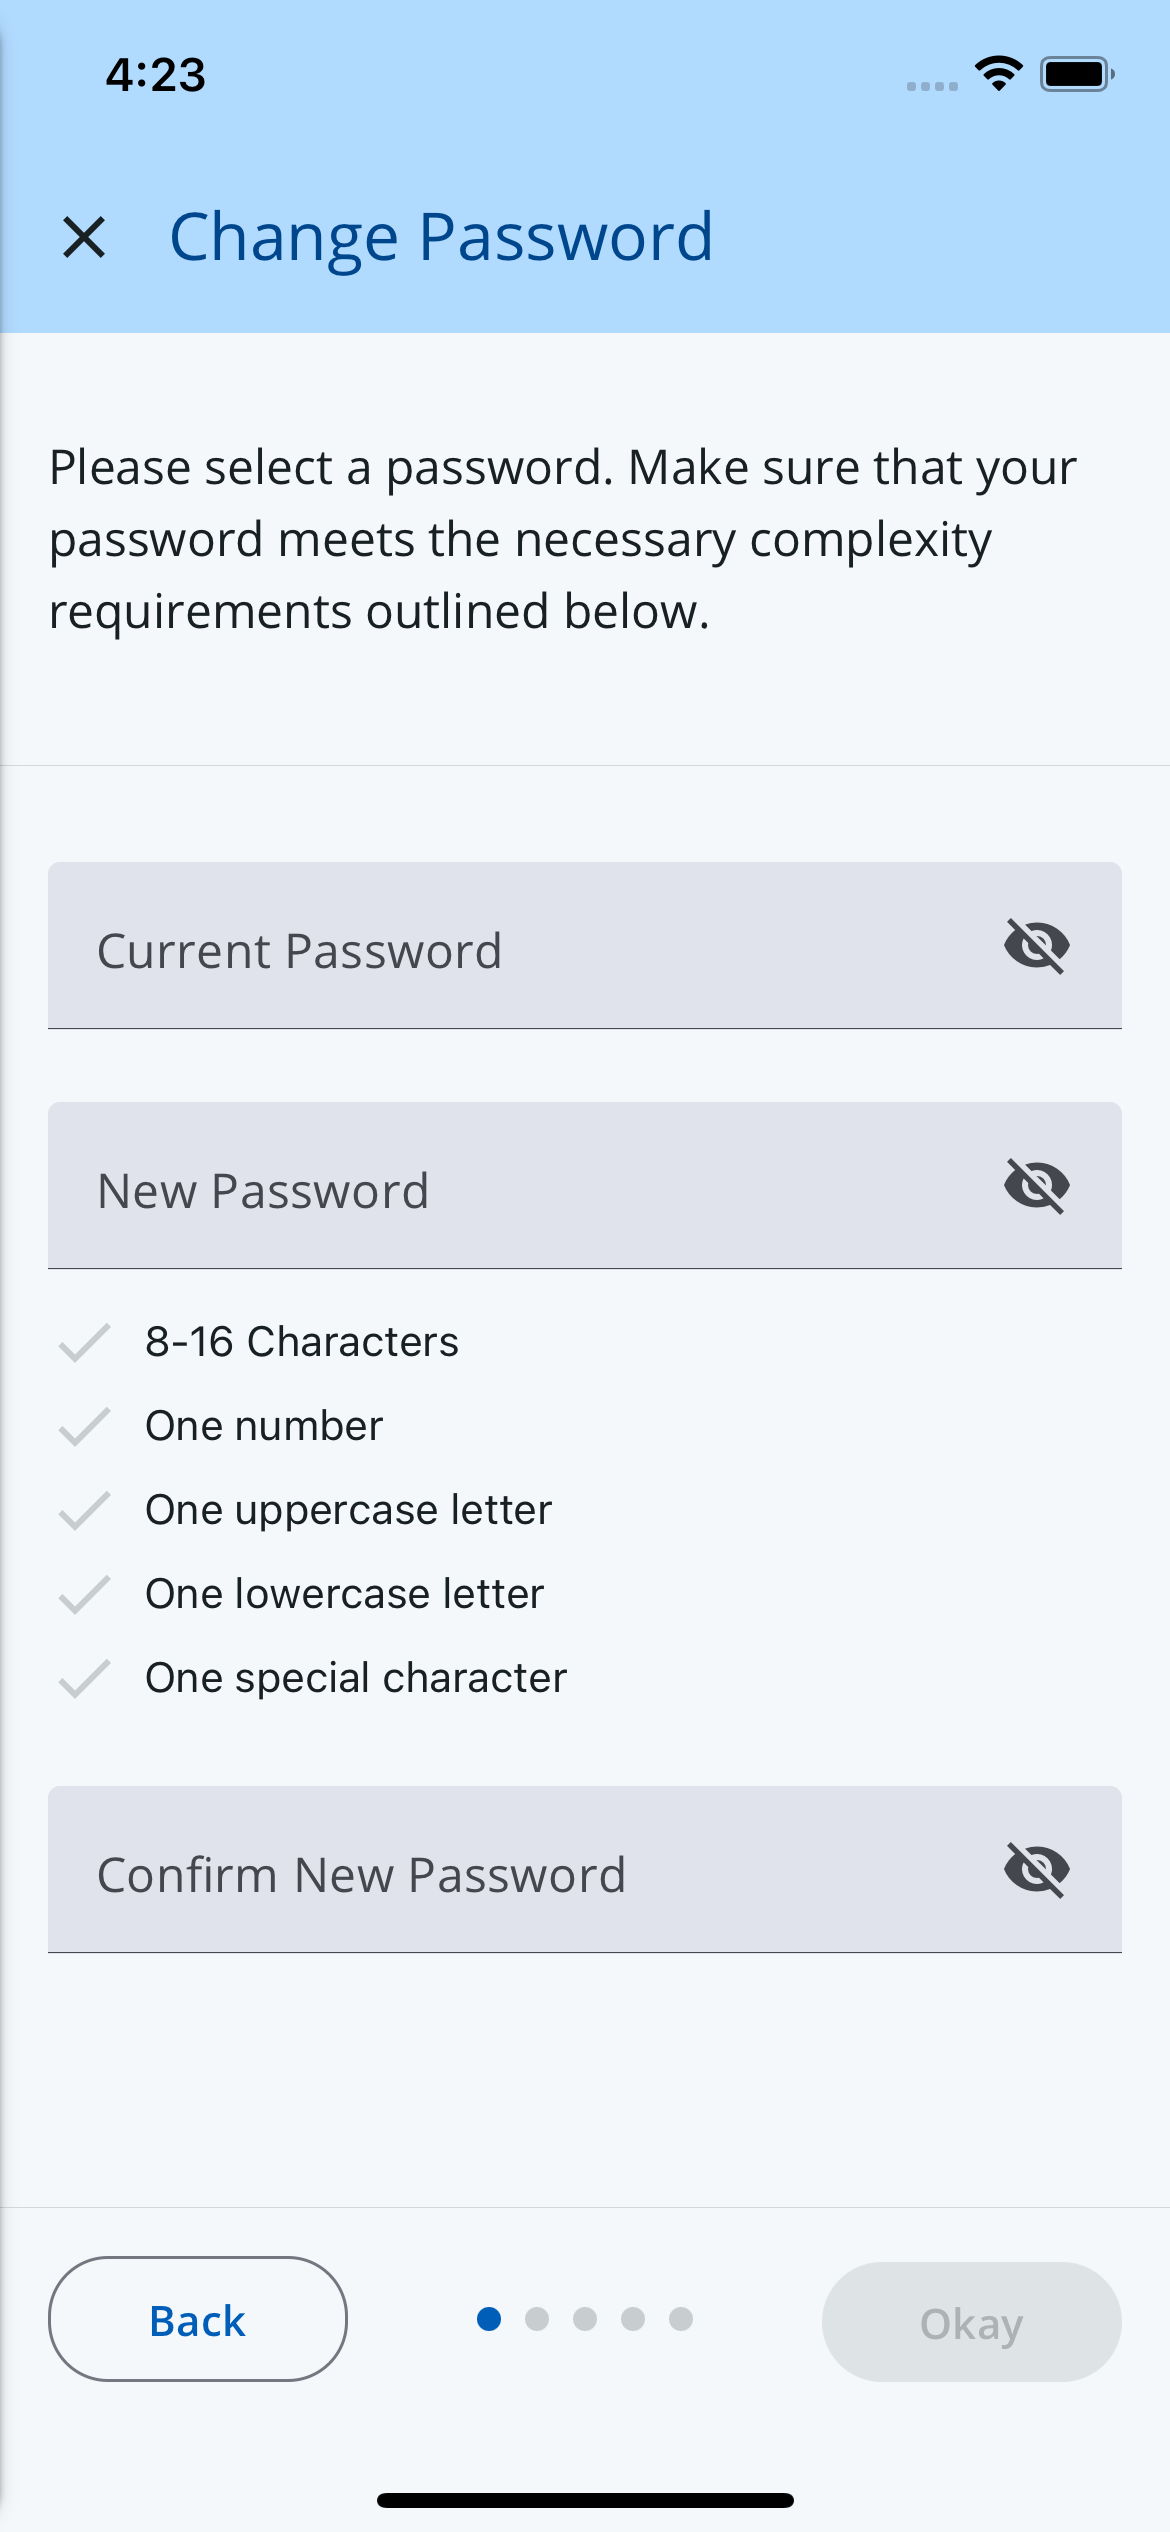
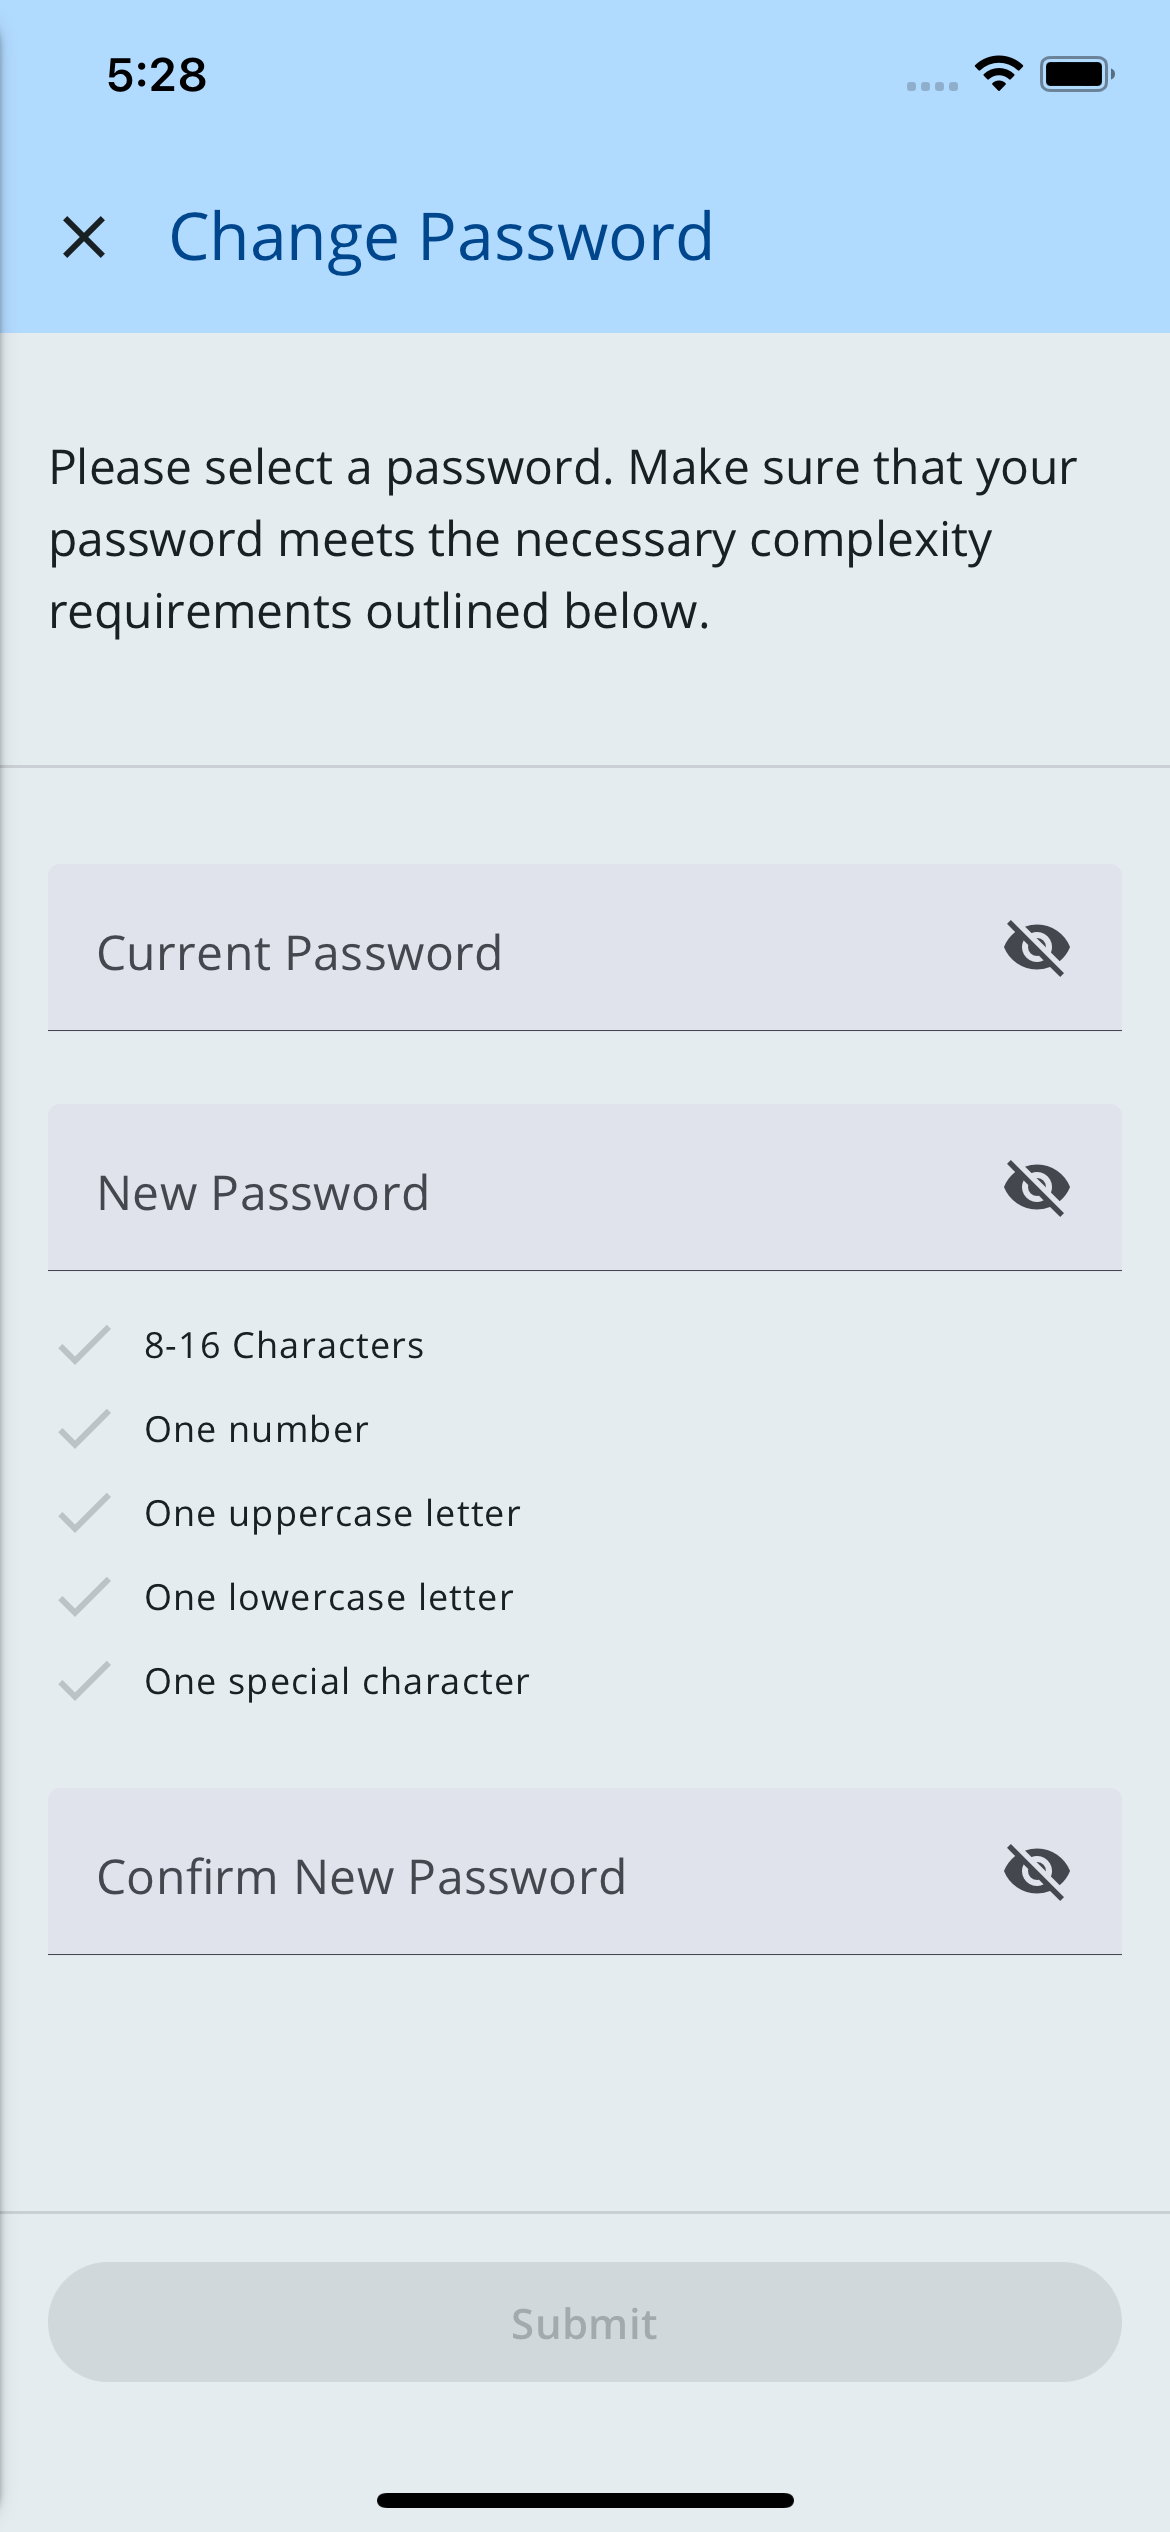
fix change password issues

diff --git a/login-workflow/src/screens/ChangePasswordScreen/ChangePasswordScreen.tsx b/login-workflow/src/screens/ChangePasswordScreen/ChangePasswordScreen.tsx
@@ -70,8 +70,9 @@ export const ChangePasswordScreen: React.FC<ChangePasswordScreenProps> = (props)
                 await actions.changePassword(currentInput, passwordInput);
                 if (props.showSuccessScreen === false) {
                     onFinish?.();
+                } else {
+                    setShowSuccessScreen(true);
                 }
-                setShowSuccessScreen(true);
             } catch (_error) {
                 triggerError(_error as Error);
             } finally {

diff --git a/login-workflow/CHANGELOG.md b/login-workflow/CHANGELOG.md
@@ -6,6 +6,11 @@ The format is based on [Keep a Changelog](https://keepachangelog.com/en/1.0.0/),
 
 ## v6.0.1 (Unreleased)
 
+### Fixed
+
+-   Incorrect Screenshot for ChangePassword Screen [500](https://github.com/etn-ccis/blui-react-native-workflows/issues/500).
+-   Able to see Success Screen in ChangePassword Screen even if showSuccessScreen set to false [501](https://github.com/etn-ccis/blui-react-native-workflows/issues/501).
+
 ### Changed
 
 -   Updated the peer dependencies.
